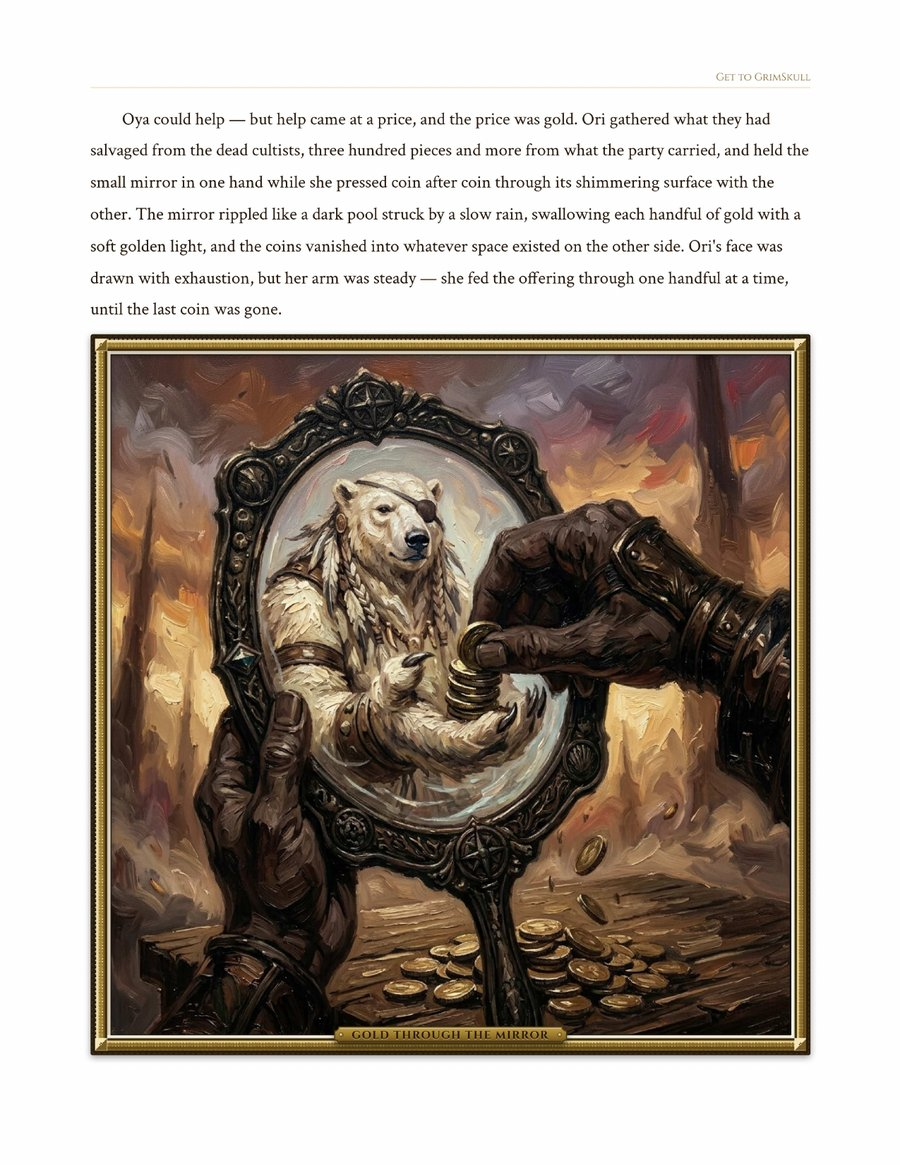
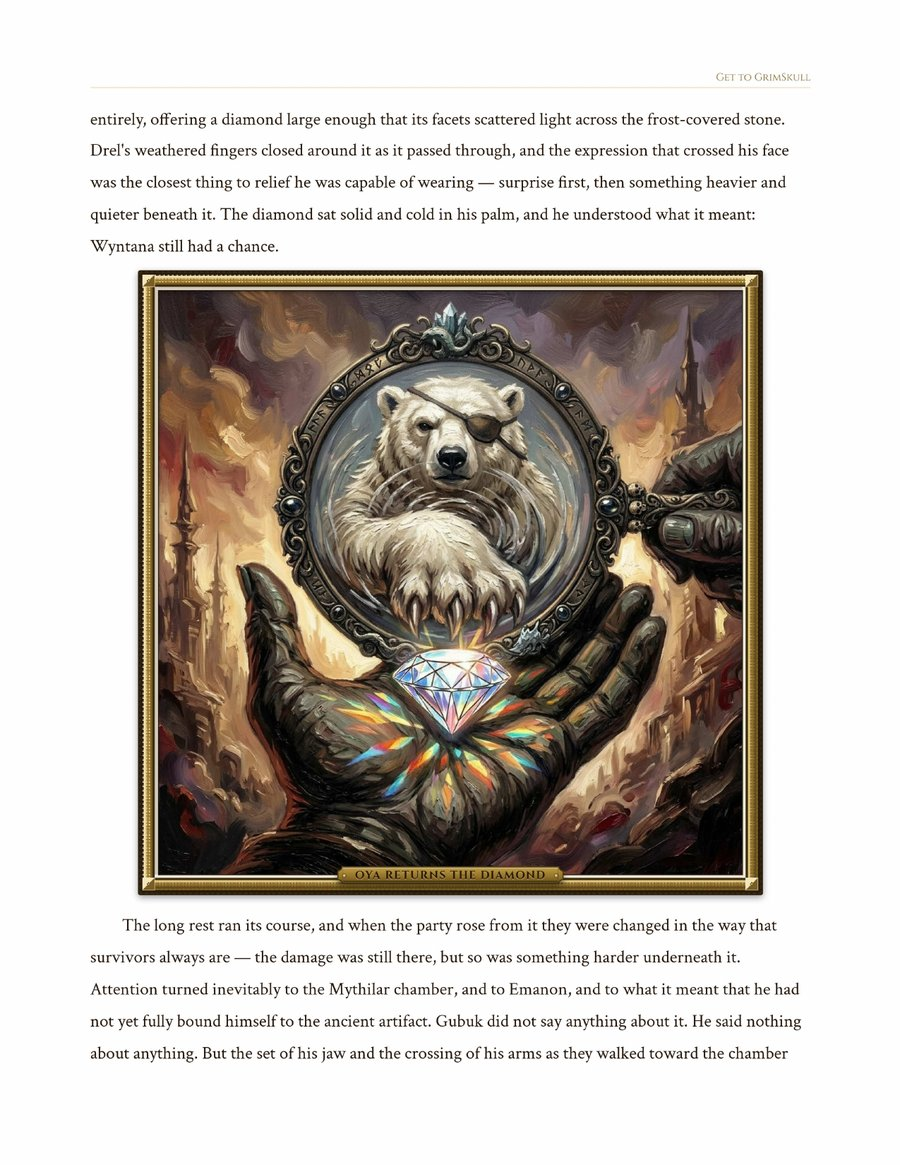
v3.0.911 - TD-772 slot fifteen becomes Oya Returns the Diamond instead of Gold Through the Mirror - the other mirror page from the same book and the same oil painting preset - the argument is the panel not the painting, at 3.8 seconds in a 541px column what carries is shape and colour and this is th

diff --git a/public/js/story-pageturn.js b/public/js/story-pageturn.js
@@ -32,7 +32,7 @@
 //  12  Stranger at the Door          test campaign          romance / suspense
 //  13  Laughter That Becomes Music   Dojo of the Dragon Spirits   luminous high fantasy
 //  14  I'd a Bet on Him Too          Our Family Stories     the closing beat
-//  15  Gold Through the Mirror       The Strangers (1)      oil paint, visible impasto
+//  15  Oya Returns the Diamond       The Strangers (1)      oil paint, prismatic scatter
 //
 // A COVER, A CHARACTER PAGE, and four page SHAPES that are visible rather than asserted:
 // full-bleed (3), a wide image over prose (5), a portrait beside a column (7), and a small image
@@ -73,11 +73,19 @@
 // it forward later is an exchange of two files' CONTENT, not a renumbering -- cheap, whenever
 // its position is worth a batch of its own.
 //
+// AND THE PAGE ITSELF CHANGED IN v3.0.911, from Gold Through the Mirror to Oya Returns the
+// Diamond -- the other mirror page from the same book. Both were offered, Ian took the gold one,
+// looked at it in the panel and switched. THE ARGUMENT FOR THE DIAMOND IS THE PANEL, NOT THE
+// PAINTING: at 3.8 seconds in a 541px column what carries is shape and colour, and this is the
+// only page in the fifteen with either -- a circle that reads instantly, and a prismatic scatter
+// that is the only pure colour in the set. The gold page is the better painting in the hand and
+// the weaker one here, where it reads as brown. Judge a picture in the slot, at the size.
+//
 // AT 3.8 SECONDS A PAGE THIS IS A 57-SECOND CYCLE and nobody sees the end of it. The coverage is
 // for the pages' own sake; the ORDER is what a visitor actually experiences.
 (function () {
   'use strict';
-  var V = '3.0.910';        // cache stamp -- bump when the pictures are replaced in place
+  var V = '3.0.911';        // cache stamp -- bump when the pictures are replaced in place
   var COUNT = 15;             // story-pic1.jpg .. story-pic15.jpg
   var DWELL = 2600, TURN = 1200;  // TURN must equal the transition in landing-story.css
 

diff --git a/views/story.html b/views/story.html
@@ -47,7 +47,7 @@
        three panel images are set in landing.css, not in this markup, so they can only be
        cleared from a stylesheet -- and clearing them HERE is what keeps index.html untouched.
        This is the file to hand different art, or a different look, when the time comes. -->
-  <link rel="stylesheet" href="/css/landing-story.css?v=3.0.910">
+  <link rel="stylesheet" href="/css/landing-story.css?v=3.0.911">
   <link rel="manifest" href="/manifest.webmanifest" />
   <meta name="theme-color" content="#0a0806" />
   <meta name="apple-mobile-web-app-capable" content="yes" />
@@ -382,6 +382,6 @@
 function cmpToggleNav(){var m=document.getElementById('mobileMenu');var b=document.getElementById('navToggle');if(!m)return;var open=m.classList.toggle('open');if(b)b.setAttribute('aria-expanded',open?'true':'false');}
 function cmpCloseNav(){var m=document.getElementById('mobileMenu');var b=document.getElementById('navToggle');if(m)m.classList.remove('open');if(b)b.setAttribute('aria-expanded','false');}
 </script>
-<script src="/js/story-pageturn.js?v=3.0.910" defer></script>
+<script src="/js/story-pageturn.js?v=3.0.911" defer></script>
 </body>
 </html>

diff --git a/public/css/landing-story.css b/public/css/landing-story.css
@@ -47,7 +47,7 @@
    the script adds sits on top of it, so a blocked script, an old browser or a slow network all
    degrade to a picture rather than to a black rectangle. */
 .hero-img-panel.story-img-slot {
-  background-image: url('/images/story-pic1.jpg?v=3.0.910');
+  background-image: url('/images/story-pic1.jpg?v=3.0.911');
   background-size: contain;
   background-repeat: no-repeat;
   background-position: center center;
